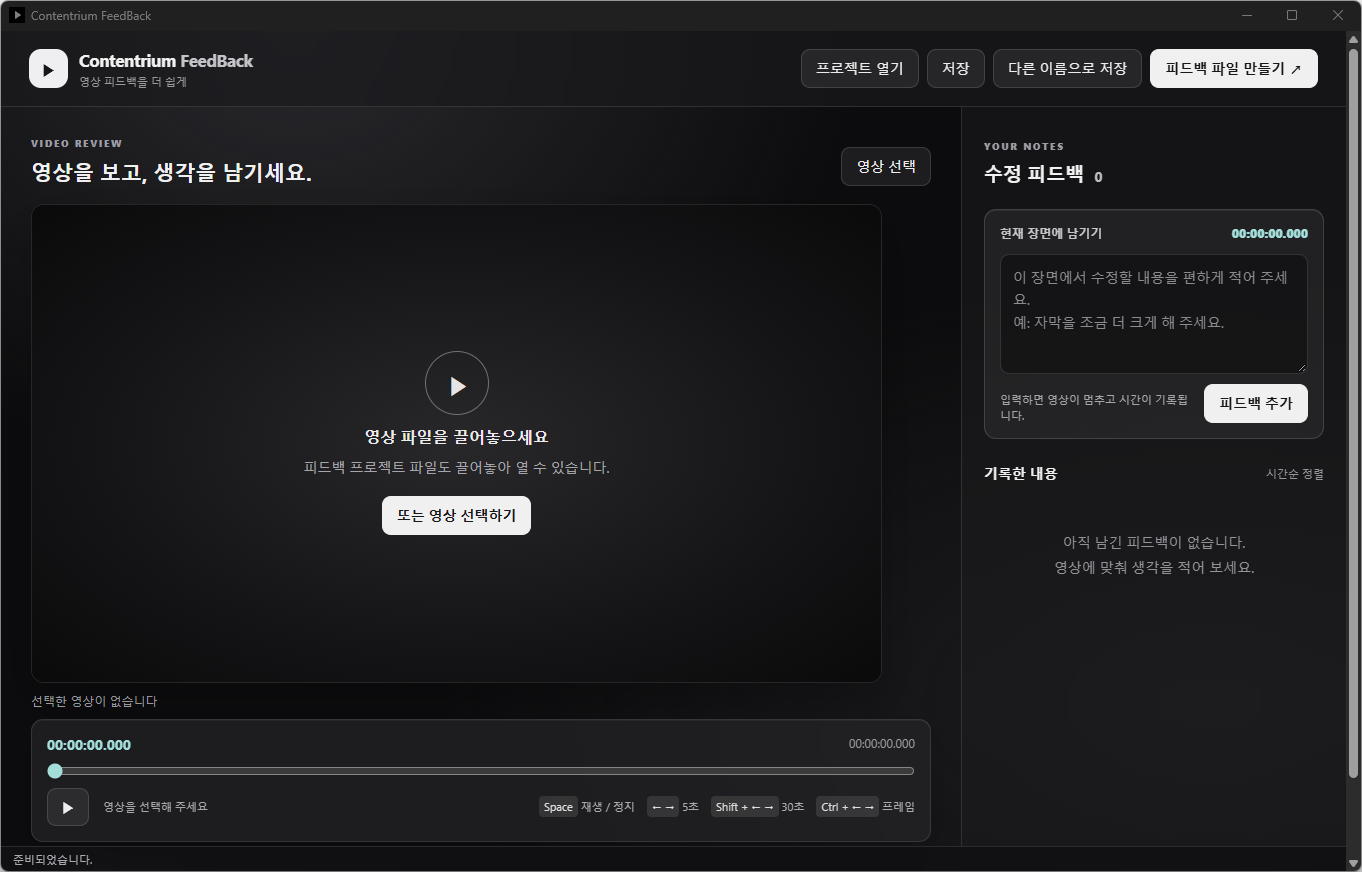
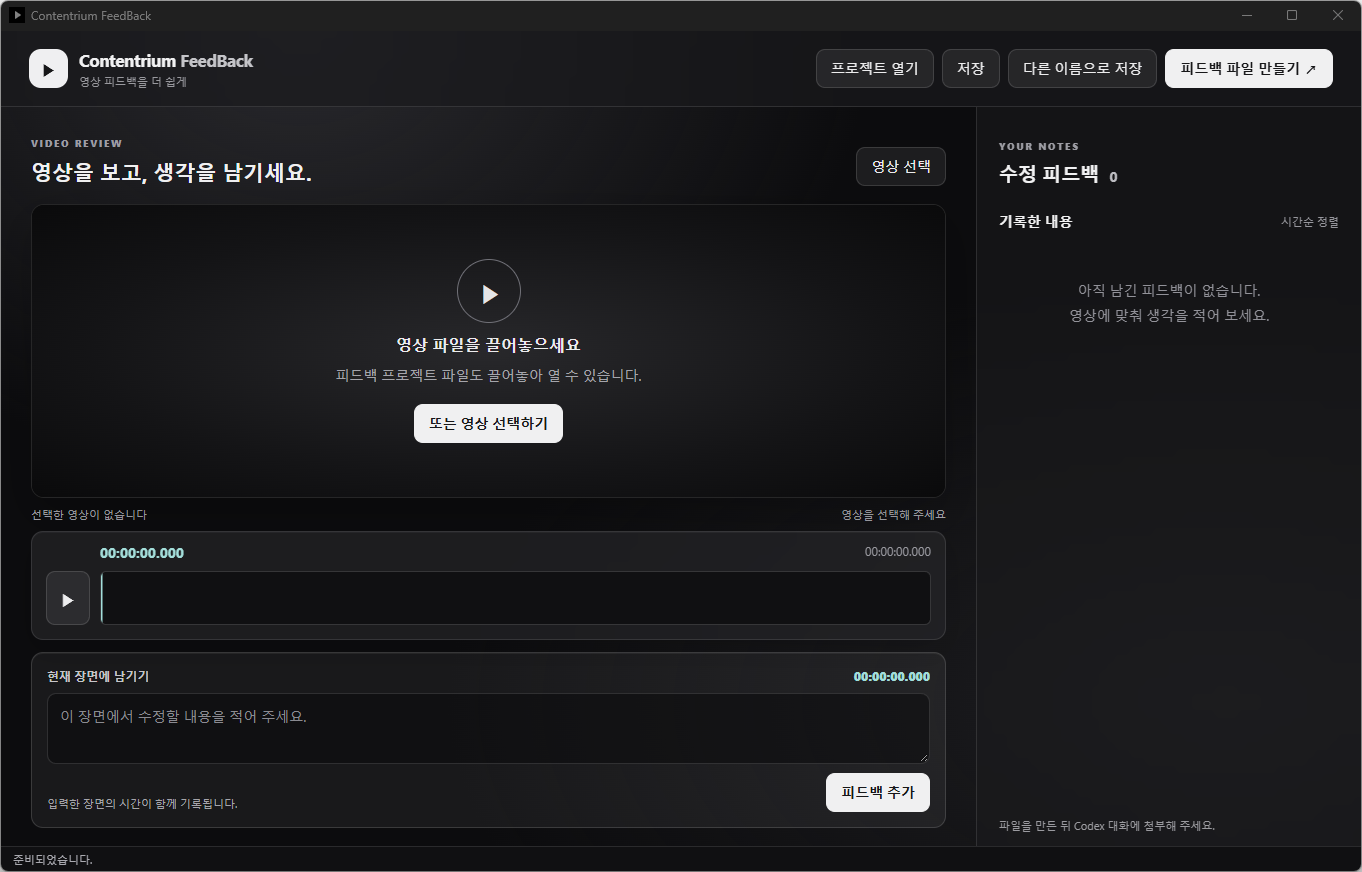
Update timeline preview for 0.1.1

diff --git a/README.md b/README.md
@@ -2,7 +2,7 @@
 
 <h1 align="center">Contentrium FeedBack</h1>
 <p align="center"><strong>영상을 멈추고 적으면, 그 순간이 함께 기록됩니다.</strong><br>영상 수정 요청을 시점별로 정리하고 Codex에 전달하는 Windows 프로그램입니다.</p>
-<p align="center"><a href="https://github.com/contentriumkorea/Contentrium-FeedBack/releases/latest"><img src="assets/version.svg" alt="Release 0.1.0"></a> <img src="assets/windows.svg" alt="Windows x64"> <img src="assets/local.svg" alt="Local video"></p>
+<p align="center"><a href="https://github.com/contentriumkorea/Contentrium-FeedBack/releases/latest"><img src="assets/version.svg" alt="Release 0.1.1"></a> <img src="assets/windows.svg" alt="Windows x64"> <img src="assets/local.svg" alt="Local video"></p>
 <p align="center"><a href="#빠르게-시작하기">설치하기</a> · <a href="https://github.com/contentriumkorea/Contentrium-FeedBack/releases/latest">다운로드</a> · <a href="#사용-모습">사용 모습</a> · <a href="#적용-범위와-제한">상세 안내</a></p>
 
 ---
@@ -19,7 +19,7 @@ Windows 64비트와 Microsoft Edge WebView2가 필요합니다. 설치기는 최
 | 01 · 영상 보기 | 02 · 수정 내용 기록 | 03 · 파일로 전달 |
 | :--- | :--- | :--- |
 | **익숙한 재생 조작** | **시간이 자동으로 기록** | **Codex에 첨부** |
-| 스페이스바와 방향키로 재생 위치를 조절합니다. | 입력란에 쓰기 시작한 장면의 시각과 내용을 함께 남깁니다. | 시점별 내용이 정리된 텍스트 파일을 만듭니다. |
+| 스페이스바와 방향키로 재생 위치를 조절합니다. | 재생바 아래에 적으면 해당 장면의 시각과 내용을 함께 남깁니다. | 시점별 내용이 정리된 텍스트 파일을 만듭니다. |
 
 ## 사용 모습
 
@@ -27,7 +27,7 @@ Windows 64비트와 Microsoft Edge WebView2가 필요합니다. 설치기는 최
 
 **영상과 피드백을 한 화면에서 확인합니다.**
 
-선택한 영상은 원래 위치에 남고, 피드백 시간을 누르면 해당 장면으로 이동합니다.
+재생바에서 구간별 썸네일과 피드백 시점을 확인할 수 있습니다. 오른쪽에서 피드백 시간을 누르면 해당 장면으로 이동합니다.
 
 <details><summary><strong>단축키 보기</strong></summary>
 
